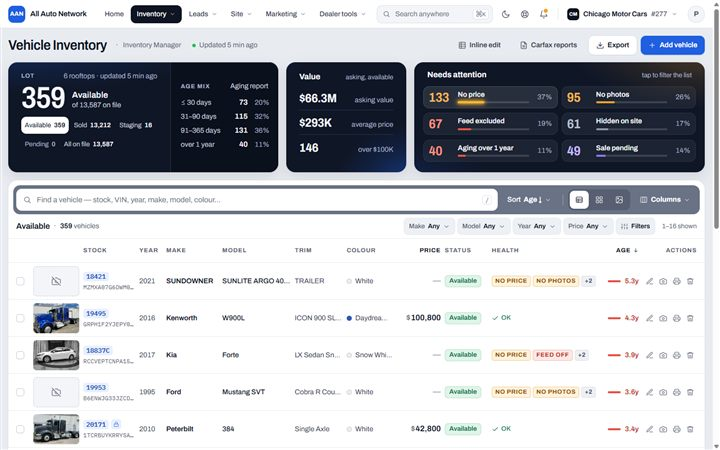
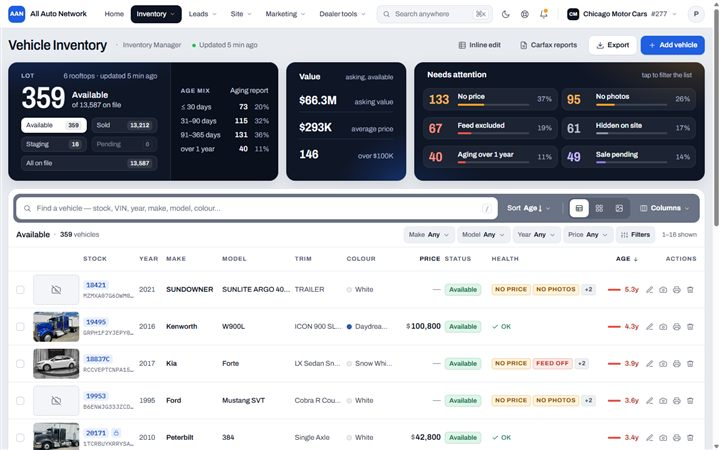
Gen 10: Lot lanes read as tappable tags
- Translucent fill + hairline, lift on hover, solid white when active, count in a small pill
- Orderly 2-column tag grid with 8/10px spacing; 'All on file' spans the row

diff --git a/pages/dealer/all-vehicles-gen10.css b/pages/dealer/all-vehicles-gen10.css
@@ -959,3 +959,21 @@ body { overflow: auto; }
 .attn .ar__m i { transition: box-shadow var(--dur2) var(--ease), filter var(--dur2) var(--ease); }
 .attn .ar:hover .ar__m i, .attn .ar:focus-visible .ar__m i { box-shadow: 0 0 6px 1px var(--tone-fill, var(--signal-fill)), 0 0 14px 2px color-mix(in srgb, var(--tone-fill, var(--signal-fill)) 45%, transparent); filter: brightness(1.15); }
 .attn .ar--on .ar__m i { box-shadow: 0 0 5px 0 color-mix(in srgb, var(--tone-fill, var(--signal-fill)) 70%, transparent); }
+
+/* ── lanes read as subtle button tags: translucent fill + hairline, lift on hover, solid white when active ── */
+.lane { background: rgba(255,255,255,.06); box-shadow: inset 0 0 0 1px rgba(255,255,255,.10); border-radius: 9px; padding: 0 9px; transition: background var(--dur) var(--ease), box-shadow var(--dur) var(--ease), color var(--dur) var(--ease), transform var(--dur) var(--ease); }
+.lane:hover { background: rgba(255,255,255,.12); box-shadow: inset 0 0 0 1px rgba(255,255,255,.22); transform: translateY(-1px); }
+.lane:active { transform: translateY(0); }
+.lane b { padding: 1px 6px; border-radius: 6px; background: rgba(255,255,255,.10); font-size: 12px; }
+.lane--on, .lane--on:hover { background: var(--focal-on); box-shadow: 0 2px 8px rgba(0,0,0,.25); transform: none; }
+.lane--on b { background: rgba(15,22,38,.08); }
+.lane--zero { opacity: .7; }
+.lane--zero b { background: transparent; box-shadow: inset 0 0 0 1px rgba(255,255,255,.12); }
+.lane:focus-visible { outline: 2px solid var(--focal-on); outline-offset: 1px; }
+/* lanes as an orderly 2-column grid of tags; 'All on file' spans the row */
+.lanes { display: grid; grid-template-columns: 1fr 1fr; gap: 4px; margin-top: 12px; }
+.lane { height: 30px; flex: none; width: auto; }
+.lane--all { grid-column: 1 / -1; margin-left: 0; }
+.focal__main { padding-bottom: 20px; }
+.lanes { gap: 8px 10px; margin-top: 14px; }
+.lane { padding: 0 10px; }
